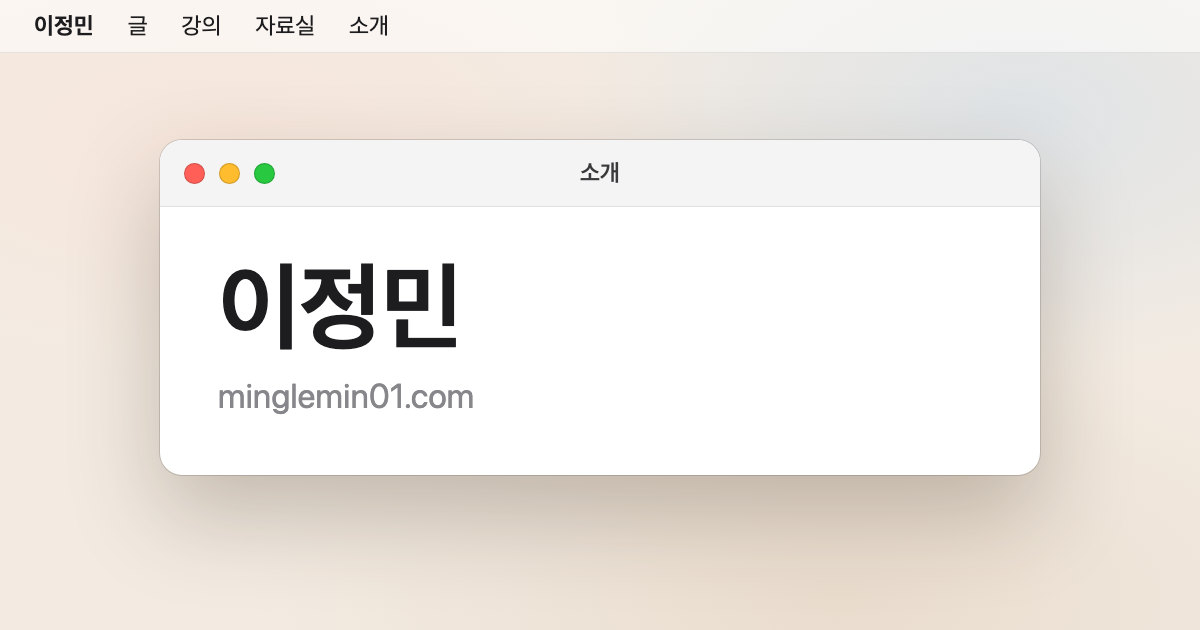
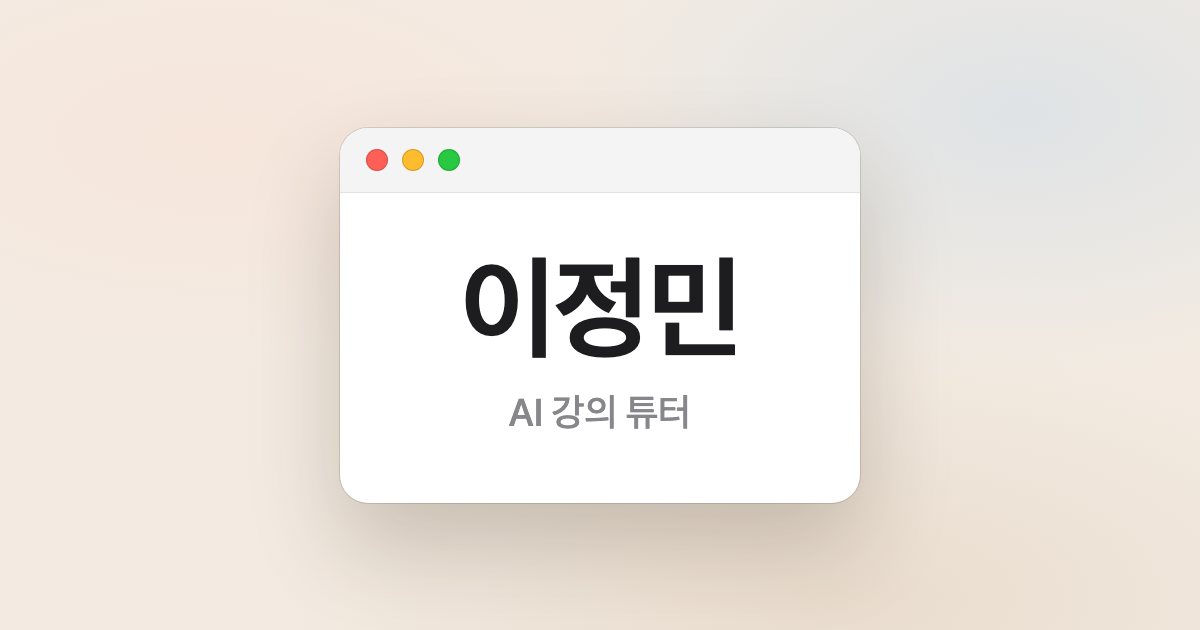
링크 미리보기 이미지 새로 만들기: 가운데 정렬, 옛 메뉴 줄 제거

diff --git a/scripts/og.html b/scripts/og.html
@@ -1,16 +1,14 @@
 <!doctype html><html lang="ko"><head><meta charset="utf-8"><style>
+/* 링크 미리보기 이미지(1200x630). 카톡·인스타는 가운데를 잘라 쓰므로 내용은 가운데 정사각형 안에만 둔다. */
 html,body{margin:0;width:1200px;height:630px}
-body{font-family:-apple-system,BlinkMacSystemFont,'Apple SD Gothic Neo',sans-serif;color:#1d1d1f;position:relative;overflow:hidden;
+body{font-family:-apple-system,BlinkMacSystemFont,'Apple SD Gothic Neo',sans-serif;color:#1d1d1f;display:flex;align-items:center;justify-content:center;overflow:hidden;
  background:radial-gradient(60% 55% at 18% 22%,#f6e6dc 0,transparent 70%),radial-gradient(55% 60% at 85% 18%,#dfe3e6 0,transparent 70%),radial-gradient(70% 60% at 70% 95%,#e9dccd 0,transparent 70%),#f3ebe2}
-.bar{position:absolute;inset:0 0 auto 0;height:52px;background:rgba(255,255,255,.55);border-bottom:1px solid rgba(0,0,0,.08);display:flex;align-items:center;gap:34px;padding:0 34px;font-size:23px}
-.bar b{font-weight:700}
-.win{position:absolute;left:160px;top:140px;width:880px;border-radius:22px;overflow:hidden;background:#fff;box-shadow:0 0 0 1px rgba(0,0,0,.14),0 40px 90px rgba(50,35,20,.25)}
-.t{height:66px;background:#f4f4f5;border-bottom:1px solid rgba(0,0,0,.08);display:flex;align-items:center;justify-content:center;font-size:23px;font-weight:600;color:#3a3a3c;position:relative}
-.l{position:absolute;left:24px;display:flex;gap:14px}.l i{width:21px;height:21px;border-radius:50%;box-shadow:inset 0 0 0 1px rgba(0,0,0,.18)}
-.in{padding:46px 58px 60px}
-h1{margin:0;font-size:96px;font-weight:700;line-height:1.1;letter-spacing:-.02em}
-p{margin:16px 0 0;font-size:34px;color:#86868b}
+.win{width:520px;border-radius:28px;overflow:hidden;background:#fff;box-shadow:0 0 0 1px rgba(0,0,0,.12),0 40px 90px rgba(50,35,20,.22)}
+.t{height:64px;background:#f4f4f5;border-bottom:1px solid rgba(0,0,0,.07);display:flex;align-items:center;padding:0 26px;gap:14px}
+.t i{width:22px;height:22px;border-radius:50%;box-shadow:inset 0 0 0 1px rgba(0,0,0,.16)}
+.in{padding:58px 0 66px;text-align:center}
+h1{margin:0;font-size:112px;font-weight:700;line-height:1;letter-spacing:-.03em}
+p{margin:26px 0 0;font-size:38px;font-weight:500;color:#86868b}
 </style></head><body>
-<div class="bar"><b>이정민</b><span>글</span><span>강의</span><span>자료실</span><span>소개</span></div>
-<div class="win"><div class="t"><span class="l"><i style="background:#ff5f57"></i><i style="background:#febc2e"></i><i style="background:#28c840"></i></span>소개</div><div class="in"><h1>이정민</h1><p>minglemin01.com</p></div></div>
+<div class="win"><div class="t"><i style="background:#ff5f57"></i><i style="background:#febc2e"></i><i style="background:#28c840"></i></div><div class="in"><h1>이정민</h1><p>AI 강의 튜터</p></div></div>
 </body></html>
